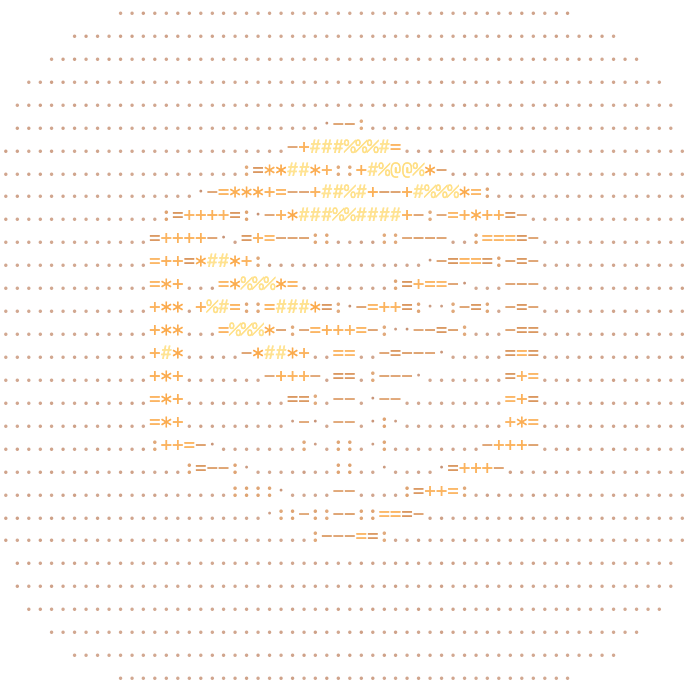
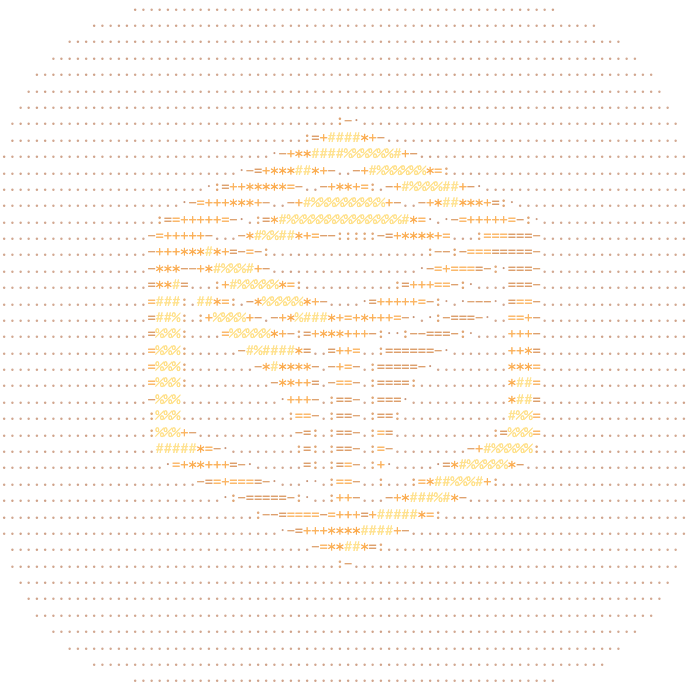
chore(site): what catalogs search skills by, and refreshed generated data
The agent catalog gets the questions each skill answers. The README's
Contributing section stays off the home page, Built with's dependency list is
read again, and the Open Graph cube is drawn again.

diff --git a/lib/ard.ts b/lib/ard.ts
@@ -7,6 +7,13 @@ import { siteUrl } from '@/lib/shared';
 
 const host = new URL(siteUrl).hostname.replace(/^www\./, '');
 
+// What someone would ask for each skill: a catalog's search is built from these.
+const askedFor: Record<string, string[]> = {
+  'install-thaw': ['install Thaw on a Mac', 'which Thaw for my macOS version'],
+  'troubleshoot-thaw': ['Thaw is not working', 'menu bar items are missing or moving'],
+  'thaw-url-scheme': ['control Thaw with thaw:// links', 'automate the menu bar with Thaw'],
+};
+
 export function aiCatalog() {
   return {
     specVersion: '1.0',
@@ -18,13 +25,15 @@ export function aiCatalog() {
         description: 'Search the docs and release notes of Thaw and Floe. Read-only, no key.',
         type: 'application/vnd.oai.openapi+json',
         url: `${siteUrl}/openapi.json`,
+        representativeQueries: ['search the Thaw docs', 'Thaw and Floe release notes'],
       },
       ...skillCatalog().map((skill) => ({
         identifier: `urn:air:${host}:skill:${skill.name}`,
         displayName: skill.title,
         description: skill.description,
-        type: 'text/markdown',
+        type: 'text/markdown; profile="urn:air:agent-skills"',
         url: `${siteUrl}/.well-known/agent-skills/${skill.name}/SKILL.md`,
+        representativeQueries: askedFor[skill.name],
       })),
     ],
   };
